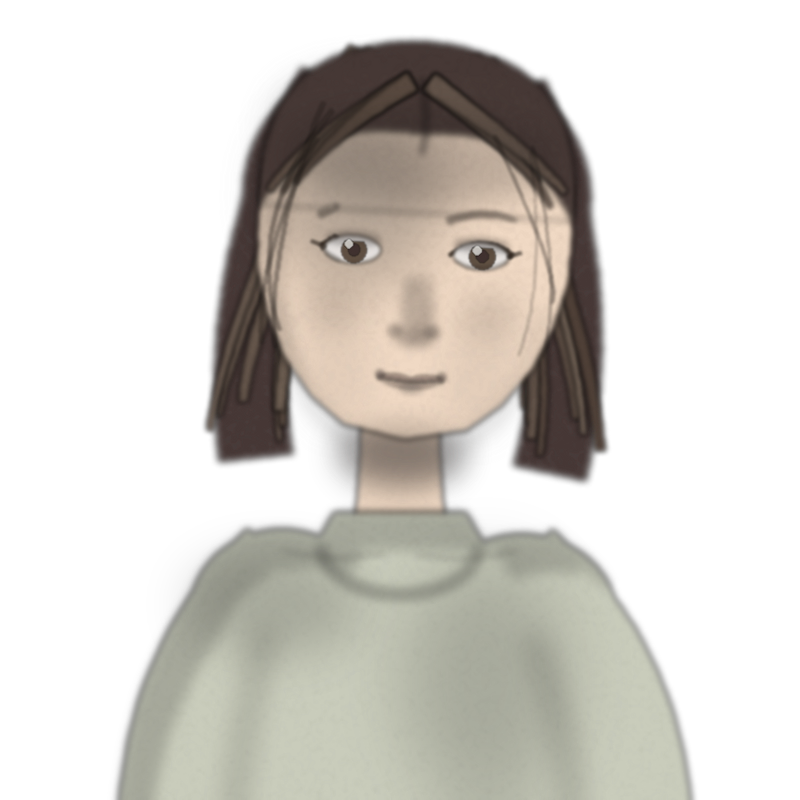
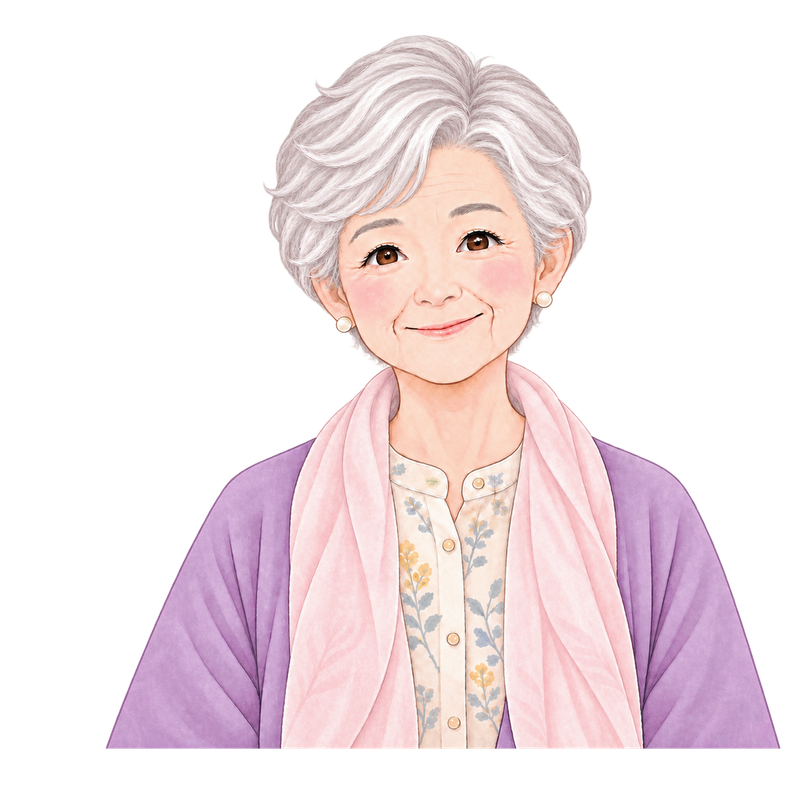
feat: customer-07を70代後半女性・金婚式のお祝いへ差し替え
- normal/blinkを白髪・上品なパープルカーディガンの女性画像に差し替え。
  頭頂部・肩の切れなし、normal/blinkの位置・大きさ一致、瞬き時のガタつき
  なし、4季表示を確認済み。
- 画像に合わせて人物データを新設（①画像確定→②年齢・性別・生活背景固定→
  ③依頼設計 の順）。旧データ（かおるさん・新居に飾る花）を、みつこさん・
  70代後半・金婚式のお祝いに、に置き換え。
- IMAGE_ASSETS.md §4の人物像列を新しいpersonaに合わせて更新。

Claude-Session: https://claude.ai/code/session_01NKV57SwEiDA72EkGzXeu8N

diff --git a/src/data/customers.ts b/src/data/customers.ts
@@ -320,43 +320,43 @@ export const CUSTOMERS: Customer[] = [
   },
   {
     id: 'customer-07',
-    name: 'かおるさん',
-    age: '40代',
-    persona: '家族で新居に引っ越した夫婦の一方',
-    entrance: '大きな紙袋を提げて、ゆったりとした足取りで入ってきました。',
-    life: '家族で新しい家に越したばかり。まだ玄関ががらんとしているそうです。',
+    name: 'みつこさん',
+    age: '70代後半',
+    persona: '上品でおだやかな、長年連れ添った夫を持つ女性',
+    entrance: 'ゆっくりとした足取りで、静かに店内を見渡しました。',
+    life: '今年、結婚から五十年の金婚式を迎えるそうです。',
     memo: [
-      '先週、家族で越したばかりで。',
-      '玄関に置くので、大きすぎないほうが。',
+      '今年、結婚五十年になるんです。',
+      '主人と、静かに祝いたくて。',
     ],
     lines: [
-      '先週、家族で新しい家に越したんです。',
-      '玄関に置いても邪魔にならないくらいの、明るい花がいいなと。',
-      '家族みんなで見られるようなものがいいですね。',
+      '今年で、結婚から五十年になるんです。',
+      '大げさにはせず、ふたりで静かに祝いたくて。',
+      '長い時間を思わせるような、落ち着いた花にできますか。',
     ],
-    purpose: '新居に飾る花',
-    budget: 2800,
+    purpose: '金婚式のお祝いに',
+    budget: 3400,
     wish: {
-      impressions: ['bright', 'natural'],
-      tones: ['warm', 'green'],
-      toneLabel: '明るいけれど、うるさくない色',
-      volume: 'full',
+      impressions: ['elegant', 'calm'],
+      tones: ['warm', 'white'],
+      toneLabel: '落ち着いた、上品な色合い',
+      volume: 'medium',
     },
     reactions: {
       delighted: [
-        'あら、いいわね。家族みんなで見られる感じ。',
-        'これを玄関に置いたら、あの家が「うち」になりそうです。',
+        'まぁ、素敵ね。……主人もきっと喜びます。',
+        '五十年分の気持ちが、ちゃんと形になりました。',
       ],
       happy: [
-        '素敵です。ちょうどいい大きさですね。',
-        '持って帰るのが楽しみになりました。',
+        'きれいですね。……主人に見せるのが楽しみです。',
+        '落ち着いていて、とてもいいですね。',
       ],
       grateful: [
-        'ありがとうございます。喜んでくれるといいな。',
-        'こういう時間、久しぶりでした。',
+        'ありがとうございます。大切に持って帰りますね。',
+        'こうして選ぶ時間も、いい記念になりました。',
       ],
     },
-    farewell: '落ち着いたら、また寄らせてください。',
+    farewell: 'また、何か記念日のときにお願いしますね。',
   },
   {
     id: 'customer-08',

diff --git a/IMAGE_ASSETS.md b/IMAGE_ASSETS.md
@@ -176,7 +176,7 @@
 | `customer-04` | 仕事と子育てを両立している母 |
 | `customer-05` | 家を出る娘を送り出す父親 |
 | `customer-06` | 上品でやさしい、旧友を大切にする女性 |
-| `customer-07` | 家族で新居に引っ越した夫婦の一方 |
+| `customer-07` | 上品でおだやかな、長年連れ添った夫を持つ女性 |
 | `customer-08` | 入院中の親友 |
 
 各表情: `-normal.png`（依頼を聞いているとき）／`-happy.png`（花束を受け取ったとき）
